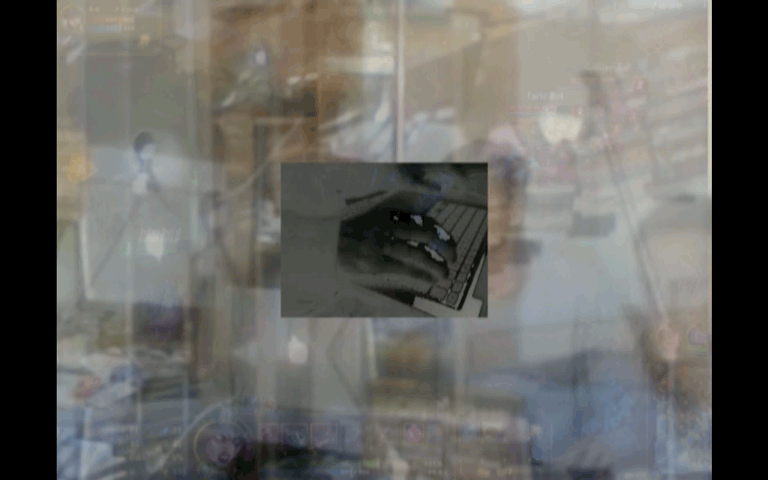
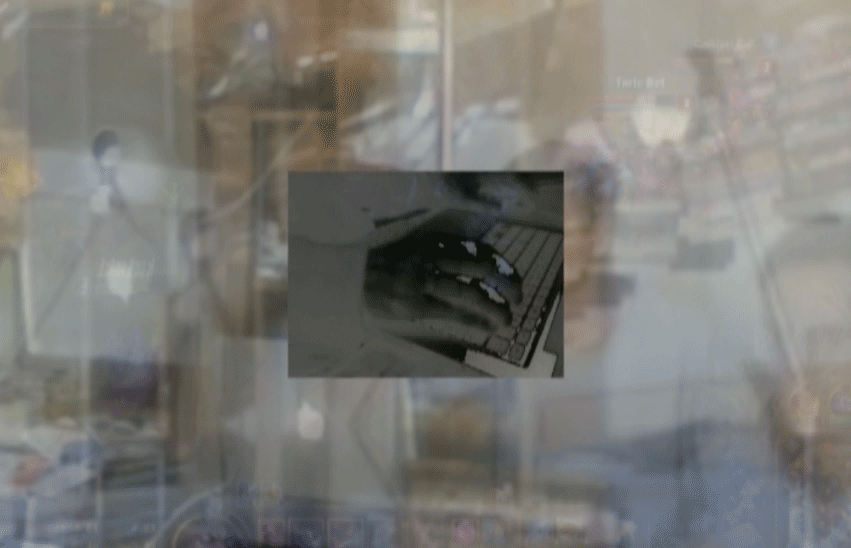
Exhibitions (EN) Complete

diff --git a/EN/js/exhibits2.js b/EN/js/exhibits2.js
@@ -77,30 +77,30 @@ function preload() {
   int4 = loadImage('assets/int4.png');
   int5 = loadImage('assets/int5.png');
   int6 = loadImage('assets/int6.png');
-  sidn1 = loadImage('assets/sidn1.png');
-  sidn2 = loadImage('assets/sidn2.png');
-  sidn3 = loadImage('assets/sidn3.png');
-  sidn4 = loadImage('assets/sidn4.png');
-  sidn5 = loadImage('assets/sidn5.png');
-  sidn6 = loadImage('assets/sidn6.png');
-  vl1 = loadImage('assets/vl1.png');
-  vl2 = loadImage('assets/vl2.png');
-  vl3 = loadImage('assets/vl3.png');
-  vl4 = loadImage('assets/vl4.png');
-  vl5 = loadImage('assets/vl5.png');
-  vl6 = loadImage('assets/vl6.png');
-  por1 = loadImage('assets/por1.png');
-  por2 = loadImage('assets/por2.png');
-  por3 = loadImage('assets/por3.png');
-  por4 = loadImage('assets/por4.png');
-  por5 = loadImage('assets/por5.png');
-  por6 = loadImage('assets/por6.png');
-  dream1 = loadImage('assets/dream1.png');
-  dream2 = loadImage('assets/dream2.png');
-  dream3 = loadImage('assets/dream3.png');
-  dream4 = loadImage('assets/dream4.png');
-  dream5 = loadImage('assets/dream5.png');
-  dream6 = loadImage('assets/dream6.png');
+  isod1 = loadImage('assets/isod1.png');
+  isod2 = loadImage('assets/isod2.png');
+  isod3 = loadImage('assets/isod3.png');
+  isod4 = loadImage('assets/isod4.png');
+  isod5 = loadImage('assets/isod5.png');
+  isod6 = loadImage('assets/isod6.png');
+  soes1 = loadImage('assets/soes1.png');
+  soes2 = loadImage('assets/soes2.png');
+  soes3 = loadImage('assets/soes3.png');
+  soes4 = loadImage('assets/soes4.png');
+  soes5 = loadImage('assets/soes5.png');
+  soes6 = loadImage('assets/soes6.png');
+  lwmd1 = loadImage('assets/lwmd1.jpg');
+  lwmd2 = loadImage('assets/lwmd2.png');
+  lwmd3 = loadImage('assets/lwmd3.png');
+  lwmd4 = loadImage('assets/lwmd4.png');
+  lwmd5 = loadImage('assets/lwmd5.png');
+  lwmd6 = loadImage('assets/lwmd6.png');
+  mal1 = loadImage('assets/mal1.png');
+  mal2 = loadImage('assets/mal2.png');
+  mal3 = loadImage('assets/mal3.png');
+  mal4 = loadImage('assets/mal4.png');
+  mal5 = loadImage('assets/mal5.png');
+  mal6 = loadImage('assets/mal6.png');
 
 
 }
@@ -379,21 +379,21 @@ function draw() {
 
     if (mouseX < (rect2.left + (rectW/3)) && mouseY > ((rect2.bottom+top)-(rectH/2))) {
 
-      image(sidn1, rect2.left, rect2.top + top, (rect2.right - rect2.left), (rect2.bottom - rect2.top));
+      image(isod1, rect2.left, rect2.top + top, (rect2.right - rect2.left), (rect2.bottom - rect2.top));
     } else if (mouseX > (rect2.left + (rectW/3)) && mouseX < (rect2.left + (rectW/3)*2) && mouseY > ((rect2.bottom+top)-(rectH/2))) {
-      image(sidn2, rect2.left, rect2.top + top, (rect2.right - rect2.left), (rect2.bottom - rect2.top));
+      image(isod2, rect2.left, rect2.top + top, (rect2.right - rect2.left), (rect2.bottom - rect2.top));
 
     } else if (mouseX > (rect2.left + (rectW/3)*2) && mouseY > ((rect2.bottom+top)-(rectH/2))) {
-      image(sidn3, rect2.left, rect2.top + top, (rect2.right - rect2.left), (rect2.bottom - rect2.top));
+      image(isod3, rect2.left, rect2.top + top, (rect2.right - rect2.left), (rect2.bottom - rect2.top));
 
     } else if (mouseX < (rect2.left + (rectW/3)) && mouseY < ((rect2.bottom+top)-(rectH/2))) {
-      image(sidn4, rect2.left, rect2.top + top, (rect2.right - rect2.left), (rect2.bottom - rect2.top));
+      image(isod4, rect2.left, rect2.top + top, (rect2.right - rect2.left), (rect2.bottom - rect2.top));
 
     } else if (mouseX > (rect2.left + (rectW/3)) && mouseX < (rect2.left + (rectW/3)*2)  && mouseY < ((rect2.bottom+top)-(rectH/2))) {
-      image(sidn5, rect2.left, rect2.top + top, (rect2.right - rect2.left), (rect2.bottom - rect2.top));
+      image(isod5, rect2.left, rect2.top + top, (rect2.right - rect2.left), (rect2.bottom - rect2.top));
 
     } else if (mouseX > (rect2.left + (rectW/3)*2) && mouseY < ((rect2.bottom+top)-(rectH/2))){
-      image(sidn6, rect2.left, rect2.top + top, (rect2.right - rect2.left), (rect2.bottom - rect2.top));
+      image(isod6, rect2.left, rect2.top + top, (rect2.right - rect2.left), (rect2.bottom - rect2.top));
 
     }
   } else {
@@ -411,21 +411,21 @@ function draw() {
 
     if (mouseX < (rect3.left + (rectW/3)) && mouseY > ((rect3.bottom+top)-(rectH/2))) {
 
-      image(vl1, rect3.left, rect3.top + top, (rect3.right - rect3.left), (rect3.bottom - rect3.top));
+      image(soes1, rect3.left, rect3.top + top, (rect3.right - rect3.left), (rect3.bottom - rect3.top));
     } else if (mouseX > (rect3.left + (rectW/3)) && mouseX < (rect3.left + (rectW/3)*2) && mouseY > ((rect3.bottom+top)-(rectH/2))) {
-      image(vl2, rect3.left, rect3.top + top, (rect3.right - rect3.left), (rect3.bottom - rect3.top));
+      image(soes2, rect3.left, rect3.top + top, (rect3.right - rect3.left), (rect3.bottom - rect3.top));
 
     } else if (mouseX > (rect3.left + (rectW/3)*2) && mouseY > ((rect3.bottom+top)-(rectH/2))) {
-      image(vl3, rect3.left, rect3.top + top, (rect3.right - rect3.left), (rect3.bottom - rect3.top));
+      image(soes3, rect3.left, rect3.top + top, (rect3.right - rect3.left), (rect3.bottom - rect3.top));
 
     } else if (mouseX < (rect3.left + (rectW/3)) && mouseY < ((rect3.bottom+top)-(rectH/2))) {
-      image(vl4, rect3.left, rect3.top + top, (rect3.right - rect3.left), (rect3.bottom - rect3.top));
+      image(soes4, rect3.left, rect3.top + top, (rect3.right - rect3.left), (rect3.bottom - rect3.top));
 
     } else if (mouseX > (rect3.left + (rectW/3)) && mouseX < (rect3.left + (rectW/3)*2)  && mouseY < ((rect3.bottom+top)-(rectH/2))) {
-      image(vl5, rect3.left, rect3.top + top, (rect3.right - rect3.left), (rect3.bottom - rect3.top));
+      image(soes5, rect3.left, rect3.top + top, (rect3.right - rect3.left), (rect3.bottom - rect3.top));
 
     } else if (mouseX > (rect3.left + (rectW/3)*2) && mouseY < ((rect3.bottom+top)-(rectH/2))){
-      image(vl6, rect3.left, rect3.top + top, (rect3.right - rect3.left), (rect3.bottom - rect3.top));
+      image(soes6, rect3.left, rect3.top + top, (rect3.right - rect3.left), (rect3.bottom - rect3.top));
 
     }
   } else {
@@ -444,21 +444,21 @@ function draw() {
 
       if (mouseX < (rect4.left + (rectW/3)) && mouseY > ((rect4.bottom+top)-(rectH/2))) {
 
-        image(por1, rect4.left, rect4.top + top, (rect4.right - rect4.left), (rect4.bottom - rect4.top));
+        image(lwmd1, rect4.left, rect4.top + top, (rect4.right - rect4.left), (rect4.bottom - rect4.top));
       } else if (mouseX > (rect4.left + (rectW/3)) && mouseX < (rect4.left + (rectW/3)*2) && mouseY > ((rect4.bottom+top)-(rectH/2))) {
-        image(por2, rect4.left, rect4.top + top, (rect4.right - rect4.left), (rect4.bottom - rect4.top));
+        image(lwmd2, rect4.left, rect4.top + top, (rect4.right - rect4.left), (rect4.bottom - rect4.top));
 
       } else if (mouseX > (rect4.left + (rectW/3)*2) && mouseY > ((rect4.bottom+top)-(rectH/2))) {
-        image(por3, rect4.left, rect4.top + top, (rect4.right - rect4.left), (rect4.bottom - rect4.top));
+        image(lwmd3, rect4.left, rect4.top + top, (rect4.right - rect4.left), (rect4.bottom - rect4.top));
 
       } else if (mouseX < (rect4.left + (rectW/3)) && mouseY < ((rect4.bottom+top)-(rectH/2))) {
-        image(por4, rect4.left, rect4.top + top, (rect4.right - rect4.left), (rect4.bottom - rect4.top));
+        image(lwmd4, rect4.left, rect4.top + top, (rect4.right - rect4.left), (rect4.bottom - rect4.top));
 
       } else if (mouseX > (rect4.left + (rectW/3)) && mouseX < (rect4.left + (rectW/3)*2)  && mouseY < ((rect4.bottom+top)-(rectH/2))) {
-        image(por5, rect4.left, rect4.top + top, (rect4.right - rect4.left), (rect4.bottom - rect4.top));
+        image(lwmd5, rect4.left, rect4.top + top, (rect4.right - rect4.left), (rect4.bottom - rect4.top));
 
       } else if (mouseX > (rect4.left + (rectW/3)*2) && mouseY < ((rect4.bottom+top)-(rectH/2))){
-        image(por6, rect4.left, rect4.top + top, (rect4.right - rect4.left), (rect4.bottom - rect4.top));
+        image(lwmd6, rect4.left, rect4.top + top, (rect4.right - rect4.left), (rect4.bottom - rect4.top));
 
       }
     } else {
@@ -476,21 +476,21 @@ function draw() {
 
       if (mouseX < (rect5.left + (rectW/3)) && mouseY > ((rect5.bottom+top)-(rectH/2))) {
 
-        image(dream1, rect5.left, rect5.top + top, (rect5.right - rect5.left), (rect5.bottom - rect5.top));
+        image(mal1, rect5.left, rect5.top + top, (rect5.right - rect5.left), (rect5.bottom - rect5.top));
       } else if (mouseX > (rect5.left + (rectW/3)) && mouseX < (rect5.left + (rectW/3)*2) && mouseY > ((rect5.bottom+top)-(rectH/2))) {
-        image(dream2, rect5.left, rect5.top + top, (rect5.right - rect5.left), (rect5.bottom - rect5.top));
+        image(mal2, rect5.left, rect5.top + top, (rect5.right - rect5.left), (rect5.bottom - rect5.top));
 
       } else if (mouseX > (rect5.left + (rectW/3)*2) && mouseY > ((rect5.bottom+top)-(rectH/2))) {
-        image(dream3, rect5.left, rect5.top + top, (rect5.right - rect5.left), (rect5.bottom - rect5.top));
+        image(mal3, rect5.left, rect5.top + top, (rect5.right - rect5.left), (rect5.bottom - rect5.top));
 
       } else if (mouseX < (rect5.left + (rectW/3)) && mouseY < ((rect5.bottom+top)-(rectH/2))) {
-        image(dream4, rect5.left, rect5.top + top, (rect5.right - rect5.left), (rect5.bottom - rect5.top));
+        image(mal4, rect5.left, rect5.top + top, (rect5.right - rect5.left), (rect5.bottom - rect5.top));
 
       } else if (mouseX > (rect5.left + (rectW/3)) && mouseX < (rect5.left + (rectW/3)*2)  && mouseY < ((rect5.bottom+top)-(rectH/2))) {
-        image(dream5, rect5.left, rect5.top + top, (rect5.right - rect5.left), (rect5.bottom - rect5.top));
+        image(mal5, rect5.left, rect5.top + top, (rect5.right - rect5.left), (rect5.bottom - rect5.top));
 
       } else if (mouseX > (rect5.left + (rectW/3)*2) && mouseY < ((rect5.bottom+top)-(rectH/2))){
-        image(dream6, rect5.left, rect5.top + top, (rect5.right - rect5.left), (rect5.bottom - rect5.top));
+        image(mal6, rect5.left, rect5.top + top, (rect5.right - rect5.left), (rect5.bottom - rect5.top));
 
       }
     } else {

diff --git a/EN/exhibits-page2.html b/EN/exhibits-page2.html
@@ -104,49 +104,48 @@
     </p>
 
 
-    <h1 class='exTitleB'> PORPOS </h1><br>
-    <h2 class='exSubTitle'>ESPACE POP</h2><br>
+    <h1 class='exTitleB'> LOOK WHAT YOU MADE ME DO</h1><br>
+    <h2 class='exSubTitle'>ESPACE 8</h2><br>
     <div id="box4" class='rBox'></div>
     <p class='exP'>
-      <b>Curator:</b> Chloё P. F. Lalonde <br><br>
-      <b>Curatorial Statement:</b> <br><br> porpos creates a space in the art world for craft, for art that has a purpose, for arte-utile. It comments on the notion of art for art’s sake, aspiring to assemble many maker disciplines. These works
-      transcend the museum space and invite viewers to become more than viewers - these works invite viewers to become participants, makers of their own. Challenging both artists and participants to think about the way we experience and embody art,
-      what is lost in the creation process, and suggest ways to save these losses from landfills. porpos questions utility, usefulness and uselessness in art through multisensory work, tied to the land it was created on.
-      <br><br> <b>Artists:</b><br><br>
-      Yannick Victor / This is a real canoe<br>
-      Lindsey Lagemaat / Mat<br>
-      Laura Douglas / Microbial Glow<br>
-      Laura Simard-Lemaire / Cueille-Moi<br>
-      Rachelle Marcoux / Remains of the Future<br>
-      Rachelle A. Fleury / Yellow, Bead, Through<br>
-      Annik St-Arnaud / Orange Float<br>
-      Meredith Parent-Delgadillo / Duality<br>
-      Dominic Chalifour / Le Déjeuner <br>
+      <b>Curator:</b> Nina Molto // Louise Campion<br><br>
+      <b>Curatorial Statement:</b> <br><br> Drowning in a contemporary occidental world governed by screens and virtual data, last generations have learned to navigate through reality by relating to a constant dialogue between visual and text. Through Memes culture, this method of creation has become a significant expression instrument for internet users, and thus has influenced young students in their artistic education. The interdependency between words and visuals in such process is irrevocable: the work loses its meaning if one of the two elements goes missing.
 
-      <br><br> <b>Vernissage:</b> Friday, March 8th, 6:00 PM - 9:00 PM <br> <b>Exhibition/Exposition:</b> TBD <br>
+This exhibition explores the relationship between poetry and its visual context, and focuses on the idea of alienation fromtowards our current ecosystem. As our capitalist western ways of life leave a lot of us feeling isolated and stranded, Look what you made me do sparks a conversation on mental health, patriarchal conventions, imaginary borders and excessive behaviours.
+
+      <br><br> <b>Artists:</b><br><br>
+      Jane Reväe McWhirter / Chasing Sleep<br>
+Summer Emerald / I’m Trying To Get Free McDonalds For a year<br>
+Ali Egseem / Mess-aging<br>
+Le Massi / P.O.P.<br>
+Maude Lantier / Dissolve<br>
+Kelly Rendek / The Red String<br>
+Jézabel Plamondon / Idéalement<br>
+      <br><br> <b>Vernissage:</b> March 20st, 6:00 PM to 9:00 PM <br> <b>Exhibition:</b>  March 13th - 24th <br>
     </p>
 
 
-    <h1 class='exTitleB'> DIGITAL DREAMS / I’LL DREAM ABOUT THIS SOMEDAY </h1><br>
-    <h2 class='exSubTitle'> THEATRE RIALTO</h2><br>
+    <h1 class='exTitleB'> MALAISE </h1><br>
+    <h2 class='exSubTitle'> GHAM + DAFE</h2><br>
     <div id="box5" class='rBox'></div>
     <p class='exP'>
-      <b>Curator:</b> : Félixe Bouvry <br><br>
-      <b>Curatorial Statement:</b> <br><br> The digital era modifies our ways to absorb visual informations, and therefore how we register them. Digital Dreams / ‘’I’ll dream about this someday’’ takes a look at those new ways to materialize
-      experiences into a digital imagery,. Wwhich is as relevant for the artist’s experience as for the viewer’s.
+      <b>Curator:</b> : Olivia Deresti-Robinson <br><br>
+      <b>Curatorial Statement:</b> <br><br> Women and marginalized people have been experiencing oppression for centuries. Yet in our contemporary society, we often turn a blind eye to these still existing issues, thinking of them as problems of the past.
+Women’s bodies are exploited and distorted in the media, enforcing heterosexism and unattainable beauty standards. Strong, powerful women are often demonized. More and more people are coming forward as victims of sexual violence, yet those responsible are easily excused.
+Through the exploration of gender, the bizarre, and feelings of unease, MALAISE forces viewers to confront these injustices, provoking thought and discussion around the many forces of oppression women and marginalized people face in our society.
 
-      The memory of an art piece can become even more important than the piece itself. So how does the artwork survive the degradation of the human memory? How is it transformed by the imperfection of our minds?
-      lingers dissects touch as an all-pervading form of communication and its implications that go beyond the physical.
       <br><br> <b>Artists:</b><br><br>
 
-      Tara Knuutila / Slip Away Camp VI: Winter Wasteland<br>
-      Le Massi / LOL<br>
-      Marissa Sean Cruz / I AM NOT LIKE OTHER GIRLS<br>
-      S0-F1 et Guyot / 4423a<br>
-      Ali Egseem / Generation Loss<br>
-      Alex Apostolidis /soft throws<br>
-      Joé Côté-Rancourt - @fou_hasard / 30 octobre 2017, 6 août 2018, 7 décembre 2018, 27 septembre 2017, 11 octobre 2017, 7 janvier 2018, 23 mars 2018, 11 décembre 2018.<br>
-      <br><br> <b>Vernissage:</b> Friday, March 8th, 8:00 PM - 11:00 PM<br> <b>Exhibition/Exposition:</b> March 6th - 18th Thurs - Sun 14-19h<br>
+      Maude Lauzière Dumas / Plastimorphie<br>
+  Anissa Boukili El Hassani /  Mortuus Es<br>
+  Tedmond Edmond Desmarais /
+  never ending dream quilt<br>
+  Nora de Mariaffi / Leda Relaxes After a Hectic Week<br>
+  Jay Krakower / The first time I confront you<br>
+  Mycoze/The beauty that you'll never touch<br>
+  Olivia McFarlane / Creatures<br>
+  Sadie Mallon/How to Care for a Limp Thing<br>
+      <br><br> <b>Vernissage:</b>  March 22nd, 6:00 PM to 9:00 PM<br> <b>Exhibition/Exposition:</b> March 13th - 24th <br>
 
     </p>
     <br><br><br>

diff --git a/en/exhibits.html b/en/exhibits.html
@@ -105,7 +105,7 @@
       Meredith Parent-Delgadillo / Duality<br>
       Dominic Chalifour / Le Déjeuner <br>
 
-      <br><br> <b>Vernissage:</b> Friday, March 8th, 6:00 PM - 9:00 PM <br> <b>Exhibition:</b> TBD <br>
+      <br><br> <b>Vernissage:</b> March 8th, 6:00 PM - 9:00 PM <br> <b>Exhibition:</b> TBD <br>
     </p>
 
 
@@ -128,7 +128,7 @@
       Ali Egseem / Generation Loss<br>
       Alex Apostolidis /soft throws<br>
       Joé Côté-Rancourt / 30 octobre 2017, 6 août 2018, 7 décembre 2018, 27 septembre 2017, 11 octobre 2017, 7 janvier 2018, 23 mars 2018, 11 décembre 2018.<br>
-      <br><br> <b>Vernissage:</b> Friday, March 8th, 8:00 PM - 11:00 PM<br> <b>Exhibition:</b> March 6th - 18th Thurs - Sun 14-19h<br>
+      <br><br> <b>Vernissage:</b> March 8th, 8:00 PM - 11:00 PM<br> <b>Exhibition:</b> March 6th - 18th Thurs - Sun 14-19h<br>
 
     </p>
     <br><br><br>
